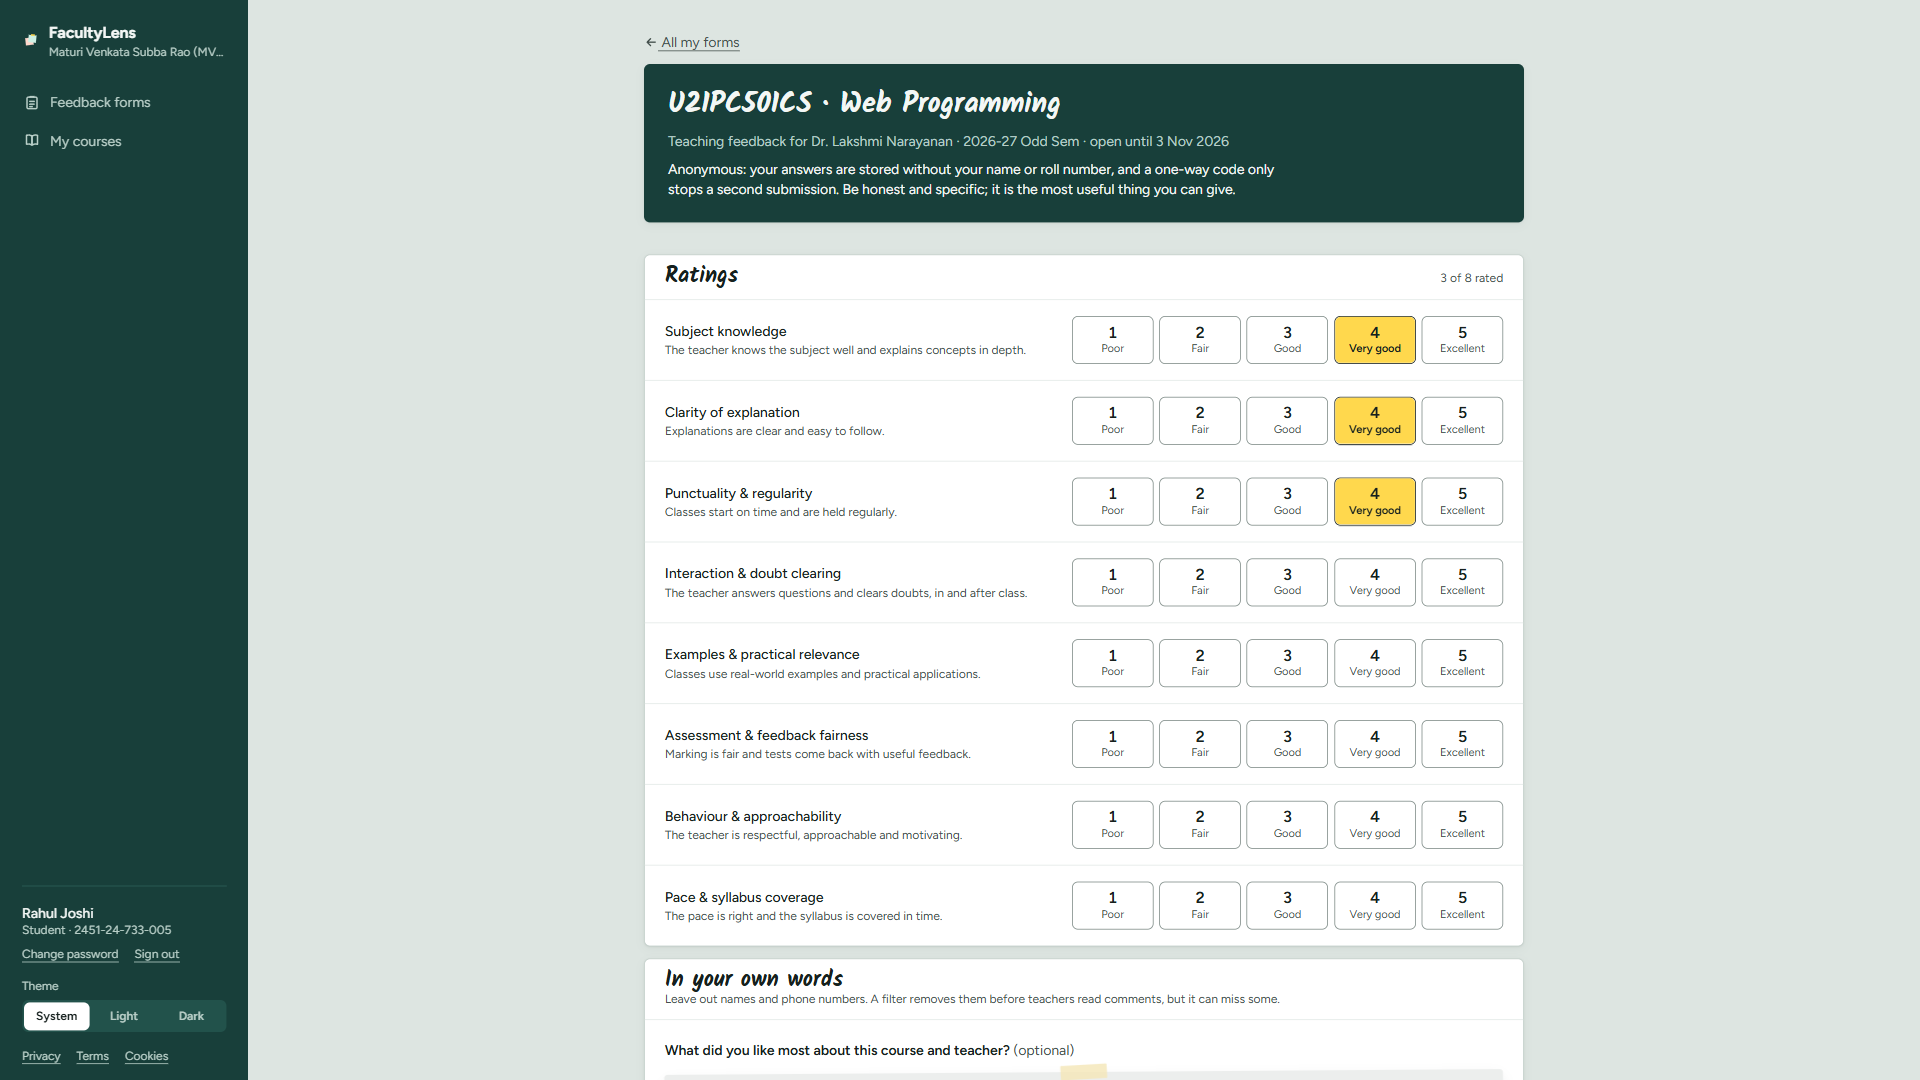
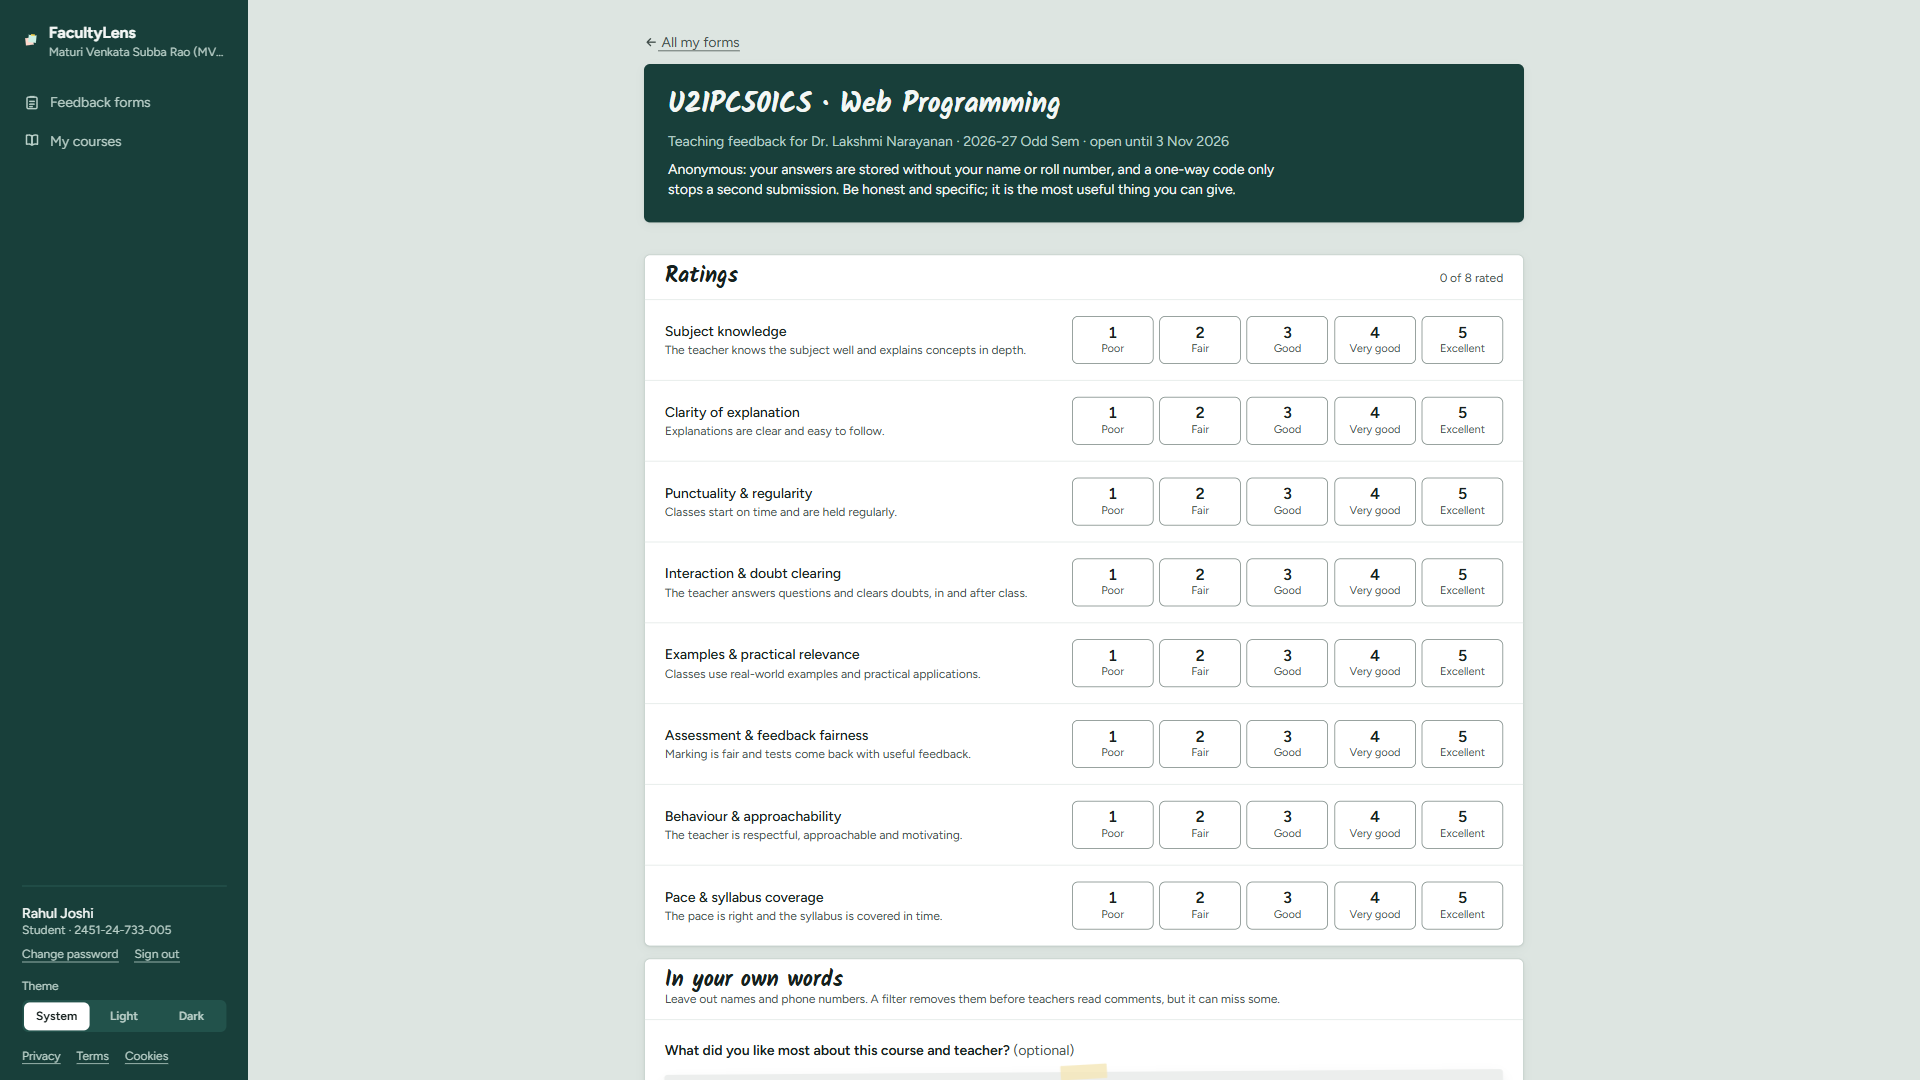
Promo: a tour of each role (students, faculty, heads of department, IQAC) with the pointer clicking through real screens; 76.8 s, beat track lengthened to match

Changed region(s): [[0.6875, 0.3667, 0.75, 0.4889], [0.6875, 0.275, 0.75, 0.3361]]

diff --git a/videos/src/Promo.jsx b/videos/src/Promo.jsx
@@ -15,7 +15,7 @@ import timings from "../public/audio/promo/timings.json";
 import { C, FONT, FPS, FontGate, MARKER, Mark, Marker, Sfx, Text, useIn } from "./kit";
 
 /*
- * The publishing promo: 50.4 s at 100 BPM. Every scene is a whole number of beats, so cuts land on
+ * The publishing promo: 76.8 s at 100 BPM. Every scene is a whole number of beats, so cuts land on
  * the music, and the pile snaps into the wall on the drop at 12.0 s (bar 6).
  */
 const BEAT = 0.6;
@@ -26,9 +26,12 @@ const SCENES = [
   ["p3", 7, 0.2],
   ["p4", 12, 0.2],
   ["p5", 10, 0.25],
-  ["p6", 14, 0.25],
-  ["p7", 14, 0.25],
-  ["p8", 11, 0.6],
+  ["s1", 16, 0.25],
+  ["f1", 14, 0.25],
+  ["f2", 14, 0.25],
+  ["h1", 15, 0.25],
+  ["q1", 10, 0.25],
+  ["p8", 14, 0.6],
 ];
 const frames = (beats) => Math.round(beats * BEAT * FPS);
 const say = Object.fromEntries(script.map((s) => [s.id, s.say]));
@@ -379,31 +382,8 @@ function Pointer({ path, clickAt }) {
 
 const S = 1360 / 1920; // screenshot scale inside the browser window
 
-/** p6: the real faculty page; the pointer opens a cluster's notes, and the drawer slides in. */
-function TeacherPage() {
-  const frame = useCurrentFrame();
-  const CLICK = 112;
-  const zoom = interpolate(frame, [CLICK + 10, 250], [1, 1.12], { extrapolateLeft: "clamp", extrapolateRight: "clamp" });
-  const enter = useIn(0, 16);
-  return (
-    <AbsoluteFill style={{ background: C.wall }}>
-      <div style={{ position: "absolute", inset: 0, transform: `scale(${zoom})`, transformOrigin: "78% 35%", opacity: enter }}>
-        <Browser src={frame < CLICK + 6 ? "faculty-top" : "faculty-drawer"}>
-          {frame < CLICK + 30 && (
-            <Pointer clickAt={[CLICK]} path={[[0, 1180, 760], [40, 1180, 760], [CLICK - 4, 911 * S, 764 * S + 4]]} />
-          )}
-        </Browser>
-      </div>
-      <Sfx name="click" at={CLICK} volume={0.45} />
-      <Sfx name="swipe" at={CLICK + 4} volume={0.25} />
-      <DemoLabel />
-      <Voice id="p6" lead={0.25} />
-    </AbsoluteFill>
-  );
-}
-
-/** A role label that slides in from the left. */
-function Role({ children, at }) {
+/** A role label that slides in from the left, naming who this part of the app is for. */
+function Role({ children, at = 2 }) {
   const p = useIn(at, 14);
   return (
     <div style={{ position: "absolute", left: 280, top: 6, padding: "6px 18px", borderRadius: 6, background: C.highlight, color: C.ink,
@@ -413,45 +393,164 @@ function Role({ children, at }) {
   );
 }
 
-/** p7: the HoD opens the bias tab; IQAC presses Download PDF and the real report page flies out. */
-function Roles() {
+/** A short explanatory label pinned over a screen (it explains; it never pretends to be the app). */
+function Callout({ children, x, y, at, kind = "praise" }) {
+  const { fps } = useVideoConfig();
+  const p = spring({ frame: useCurrentFrame() - at, fps, config: { damping: 13, stiffness: 160 } });
+  const paper = { praise: C.praise, criticism: C.criticism, neutral: C.neutral }[kind];
+  return (
+    <div style={{ position: "absolute", left: x, top: y, width: 420, padding: "20px 22px", borderRadius: 4, background: paper, boxShadow: SHADOW,
+      fontFamily: FONT, fontSize: 28, fontWeight: 700, lineHeight: 1.3, color: C.ink, zIndex: 6, opacity: Math.min(1, p * 1.6),
+      transform: `translateY(${(1 - p) * 40}px) rotate(${-2 + (1 - p) * 6}deg) scale(${0.85 + 0.15 * p})` }}>
+      <div style={{ position: "absolute", top: -10, left: "50%", width: 60, height: 20, marginLeft: -30, background: C.tape, opacity: 0.85 }} />
+      {children}
+    </div>
+  );
+}
+
+/** Pick the screen for the current frame from [fromFrame, shot] steps. */
+const screenAt = (frame, steps) => steps.reduce((cur, [f, src]) => (frame >= f ? src : cur), steps[0][1]);
+
+/** s1: a student opens a form, rates, ticks the consent box, and sends. */
+function Students() {
+  const frame = useCurrentFrame();
+  const GIVE = 54;
+  const RATE = 128;
+  const TICK = 218;
+  const src = screenAt(frame, [[0, "student-forms"], [GIVE + 6, "student-form"], [RATE + 30, "student-form-end"]]);
+  const rated = frame >= RATE && src === "student-form";
+  const ticked = frame >= TICK;
+  return (
+    <AbsoluteFill style={{ background: C.wall }}>
+      <Role>Students</Role>
+      <Browser src={src}>
+        {rated && (
+          <div style={{ position: "absolute", left: (1370 - 40) * S, top: (340 - 23) * S, width: 80 * S, height: 46 * S, borderRadius: 4,
+            background: C.highlight, border: `1px solid ${C.ink}`, display: "flex", alignItems: "center", justifyContent: "center",
+            fontFamily: FONT, fontWeight: 700, fontSize: 15, color: C.ink }}>4</div>
+        )}
+        {ticked && src === "student-form-end" && (
+          <svg width={20} height={20} viewBox="0 0 16 16" style={{ position: "absolute", left: 652 * S - 10, top: 898 * S - 10 }}>
+            <rect x="1" y="1" width="14" height="14" rx="2" fill={C.ink} />
+            <path d="M4 8.5 7 11.5 12 5" stroke={C.paper} strokeWidth="2" fill="none" strokeLinecap="round" strokeLinejoin="round" />
+          </svg>
+        )}
+        <Pointer
+          clickAt={[GIVE, RATE, TICK]}
+          path={[
+            [0, 900, 600], [10, 900, 600], [GIVE - 4, 1481 * S, 285 * S + 4],
+            [GIVE + 20, 1481 * S, 285 * S + 4], [RATE - 4, 1370 * S, 340 * S + 4],
+            [RATE + 26, 1000, 500], [TICK - 6, 652 * S, 898 * S + 4],
+          ]}
+        />
+      </Browser>
+      {[GIVE, RATE, TICK].map((t) => <Sfx key={t} name="click" at={t} volume={0.4} />)}
+      <Sfx name="swipe" at={GIVE + 6} volume={0.2} />
+      <Callout x={1300} y={420} at={TICK + 26}>Sent. Saved without the student's name.</Callout>
+      <Sfx name="pin" at={TICK + 28} volume={0.35} />
+      <DemoLabel />
+      <Voice id="s1" lead={0.25} />
+    </AbsoluteFill>
+  );
+}
+
+/** f1: the faculty page; the pointer opens a cluster's notes and the drawer slides in. */
+function TeacherPage() {
+  const frame = useCurrentFrame();
+  const CLICK = 120;
+  const zoom = interpolate(frame, [CLICK + 10, 252], [1, 1.1], { extrapolateLeft: "clamp", extrapolateRight: "clamp" });
+  return (
+    <AbsoluteFill style={{ background: C.wall }}>
+      <Role>Faculty</Role>
+      <div style={{ position: "absolute", inset: 0, transform: `scale(${zoom})`, transformOrigin: "78% 35%" }}>
+        <Browser src={frame < CLICK + 6 ? "faculty-top" : "faculty-drawer"}>
+          {frame < CLICK + 30 && (
+            <Pointer clickAt={[CLICK]} path={[[0, 1100, 700], [40, 1100, 700], [CLICK - 4, 911 * S, 764 * S + 4]]} />
+          )}
+        </Browser>
+      </div>
+      <Sfx name="click" at={CLICK} volume={0.45} />
+      <Sfx name="swipe" at={CLICK + 4} volume={0.25} />
+      <DemoLabel />
+      <Voice id="f1" lead={0.25} />
+    </AbsoluteFill>
+  );
+}
+
+/** f2: strengths, areas to improve with next steps, then the profile that waits for approval. */
+function Strengths() {
+  const frame = useCurrentFrame();
+  const CUT = 140;
+  const GEN = 200;
+  return (
+    <AbsoluteFill style={{ background: C.wall }}>
+      <Role>Faculty</Role>
+      <Browser src={frame < CUT ? "faculty-summary" : "profile-review"}>
+        {frame >= CUT && frame < GEN + 30 && (
+          <Pointer clickAt={[GEN]} path={[[CUT, 900, 500], [CUT + 12, 900, 500], [GEN - 4, 580 * S, 342 * S + 4]]} />
+        )}
+      </Browser>
+      {frame < CUT && <Callout x={1320} y={600} at={70} kind="neutral">A next step for every area to improve</Callout>}
+      {frame >= CUT && <Callout x={1320} y={430} at={GEN + 10}>Nothing is published until the teacher approves it</Callout>}
+      <Sfx name="swipe" at={CUT} volume={0.22} />
+      <Sfx name="click" at={GEN} volume={0.4} />
+      <Sfx name="pin" at={72} volume={0.3} />
+      <DemoLabel />
+      <Voice id="f2" lead={0.25} />
+    </AbsoluteFill>
+  );
+}
+
+/** h1: department insights, the bias tab, then Action taken. */
+function HeadOfDepartment() {
+  const frame = useCurrentFrame();
+  const BIAS = 70;
+  const ACTIONS = 168;
+  const src = screenAt(frame, [[0, "insights"], [BIAS + 6, "bias"], [ACTIONS + 6, "hod-actions"]]);
+  return (
+    <AbsoluteFill style={{ background: C.wall }}>
+      <Role>Head of department</Role>
+      <Browser src={src}>
+        {frame < ACTIONS + 28 && (
+          <Pointer
+            clickAt={[BIAS, ACTIONS]}
+            path={[[0, 900, 600], [8, 900, 600], [BIAS - 4, 1489 * S, 198 * S + 4], [BIAS + 30, 1489 * S, 198 * S + 4], [ACTIONS - 4, 1611 * S, 198 * S + 4]]}
+          />
+        )}
+      </Browser>
+      <Sfx name="click" at={BIAS} volume={0.45} />
+      <Sfx name="click" at={ACTIONS} volume={0.45} />
+      {frame >= ACTIONS && <Callout x={1300} y={560} at={ACTIONS + 20}>Approved here, then into the NAAC report</Callout>}
+      <DemoLabel />
+      <Voice id="h1" lead={0.25} />
+    </AbsoluteFill>
+  );
+}
+
+/** q1: IQAC presses Download PDF and the real report page flies out. */
+function Iqac() {
   const frame = useCurrentFrame();
   const { fps } = useVideoConfig();
-  const CUT = 118;
-  const TAB = 64;
-  const PDF = 196;
+  const PDF = 74;
   const pdf = spring({ frame: frame - PDF - 6, fps, config: { damping: 14, stiffness: 110 } });
   return (
     <AbsoluteFill style={{ background: C.wall }}>
-      {frame < CUT ? (
-        <>
-          <Role at={2}>Head of department</Role>
-          <Browser src={frame < TAB + 6 ? "insights" : "bias"}>
-            <Pointer clickAt={[TAB]} path={[[0, 1000, 600], [8, 1000, 600], [TAB - 4, 1489 * S, 198 * S + 4]]} />
-          </Browser>
-          <Sfx name="click" at={TAB} volume={0.45} />
-        </>
-      ) : (
-        <>
-          <Role at={CUT}>IQAC office</Role>
-          <Browser src="naac">
-            {frame < PDF + 26 && <Pointer clickAt={[PDF]} path={[[CUT, 900, 700], [CUT + 20, 900, 700], [PDF - 4, 1414 * S, 519 * S + 4]]} />}
-          </Browser>
-          <Sfx name="click" at={PDF} volume={0.45} />
-          {frame > PDF && (
-            <div style={{ position: "absolute", left: 1350, top: 120, opacity: Math.min(1, pdf * 2),
-              transform: `translate(${(1 - pdf) * -200}px, ${(1 - pdf) * 260}px) rotate(${4 * pdf - 8 * (1 - pdf)}deg) scale(${0.4 + 0.6 * pdf})` }}>
-              <Img src={staticFile("shots/naac-pdf.png")} style={{ width: 430, borderRadius: 4, border: "1px solid #c3cfca",
-                boxShadow: "0 30px 60px -16px rgba(22,32,30,0.6)" }} />
-              <div style={{ marginTop: 14, fontFamily: FONT, fontSize: 26, fontWeight: 700, color: C.ink, textAlign: "center" }}>NAAC 1.4 report.pdf</div>
-            </div>
-          )}
-          <Sfx name="swipe" at={PDF + 6} volume={0.3} />
-        </>
+      <Role>IQAC office</Role>
+      <Browser src="naac">
+        {frame < PDF + 26 && <Pointer clickAt={[PDF]} path={[[0, 900, 700], [12, 900, 700], [PDF - 4, 1414 * S, 519 * S + 4]]} />}
+      </Browser>
+      <Sfx name="click" at={PDF} volume={0.45} />
+      {frame > PDF && (
+        <div style={{ position: "absolute", left: 1350, top: 120, opacity: Math.min(1, pdf * 2),
+          transform: `translate(${(1 - pdf) * -200}px, ${(1 - pdf) * 260}px) rotate(${4 * pdf - 8 * (1 - pdf)}deg) scale(${0.4 + 0.6 * pdf})` }}>
+          <Img src={staticFile("shots/naac-pdf.png")} style={{ width: 430, borderRadius: 4, border: "1px solid #c3cfca",
+            boxShadow: "0 30px 60px -16px rgba(22,32,30,0.6)" }} />
+          <div style={{ marginTop: 14, fontFamily: FONT, fontSize: 26, fontWeight: 700, color: C.ink, textAlign: "center" }}>NAAC 1.4 report.pdf</div>
+        </div>
       )}
-      <Sfx name="swipe" at={CUT} volume={0.25} />
+      <Sfx name="swipe" at={PDF + 6} volume={0.3} />
       <DemoLabel />
-      <Voice id="p7" lead={0.25} />
+      <Voice id="q1" lead={0.25} />
     </AbsoluteFill>
   );
 }
@@ -478,7 +577,7 @@ function End() {
   );
 }
 
-const VIEWS = { p1: Hook, p2: Pile, p3: Snap, p4: Sort, p5: Redact, p6: TeacherPage, p7: Roles, p8: End };
+const VIEWS = { p1: Hook, p2: Pile, p3: Snap, p4: Sort, p5: Redact, s1: Students, f1: TeacherPage, f2: Strengths, h1: HeadOfDepartment, q1: Iqac, p8: End };
 
 /** The beat, ducked under the voice so every word is clear, and faded out at the end. */
 function Beat() {

diff --git a/videos/tts/make_beat.py b/videos/tts/make_beat.py
@@ -13,8 +13,8 @@ RATE = 44100
 BPM = 100
 BEAT = 60 / BPM
 BAR = 4 * BEAT
-BARS = 21  # 50.4 s, the promo's length
-DROP_BAR, OUTRO_BAR = 6, 20
+BARS = 32  # 76.8 s, the promo's length
+DROP_BAR, OUTRO_BAR = 6, 31
 OUT = Path(__file__).resolve().parent.parent / "public" / "sound"
 rng = np.random.default_rng(11)
 

diff --git a/videos/README.md b/videos/README.md
@@ -5,7 +5,7 @@ and rendered to MP4 at 1920×1080, 30 fps.
 
 | Video | Composition | Length | Output |
 |---|---|---|---|
-| Publishing promo | `Promo` | 50.4 s, cut to a 100 BPM beat | `out/facultylens-promo.mp4` |
+| Publishing promo | `Promo` | 76.8 s, cut to a 100 BPM beat, with a tour of each role | `out/facultylens-promo.mp4` |
 | How it works (technical) | `Tech` | about 3 min 46 s | `out/facultylens-how-it-works.mp4` |
 
 Everything is made on this computer and is free to publish:
